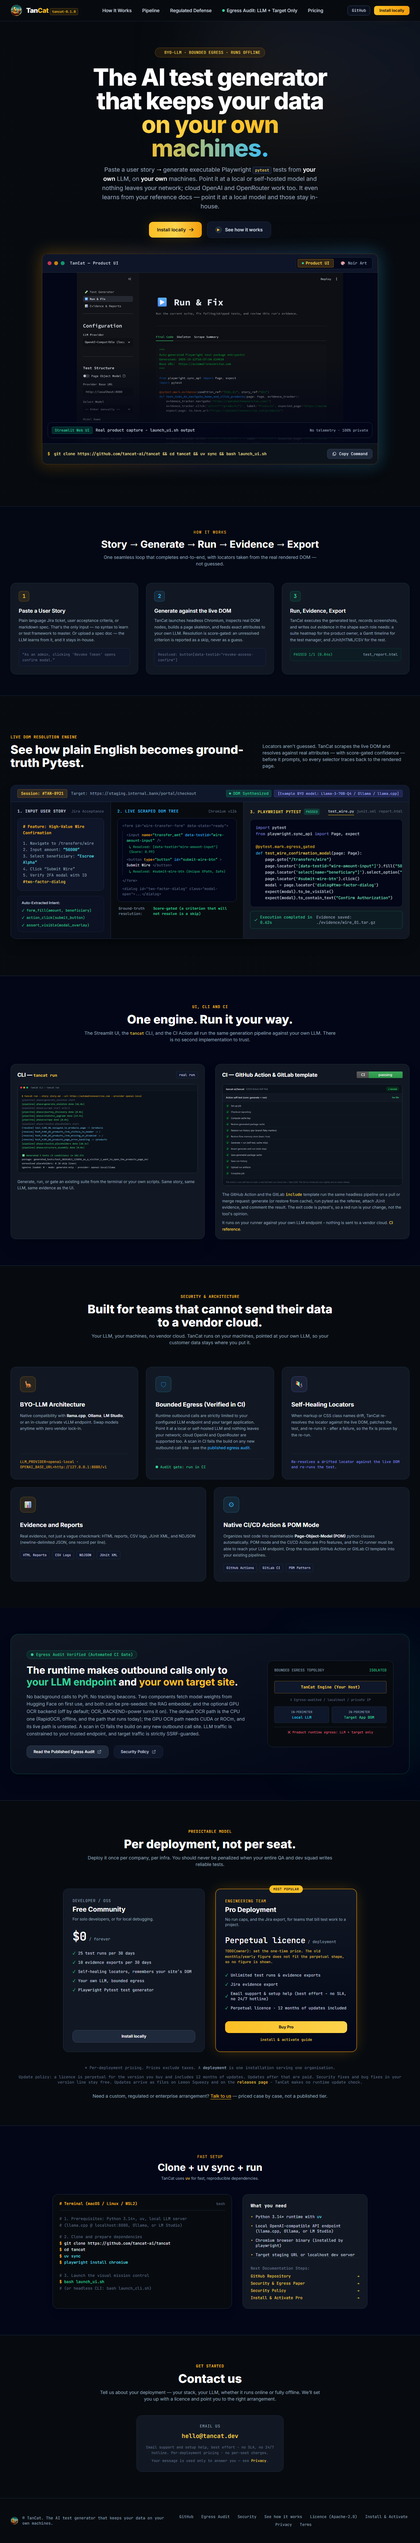
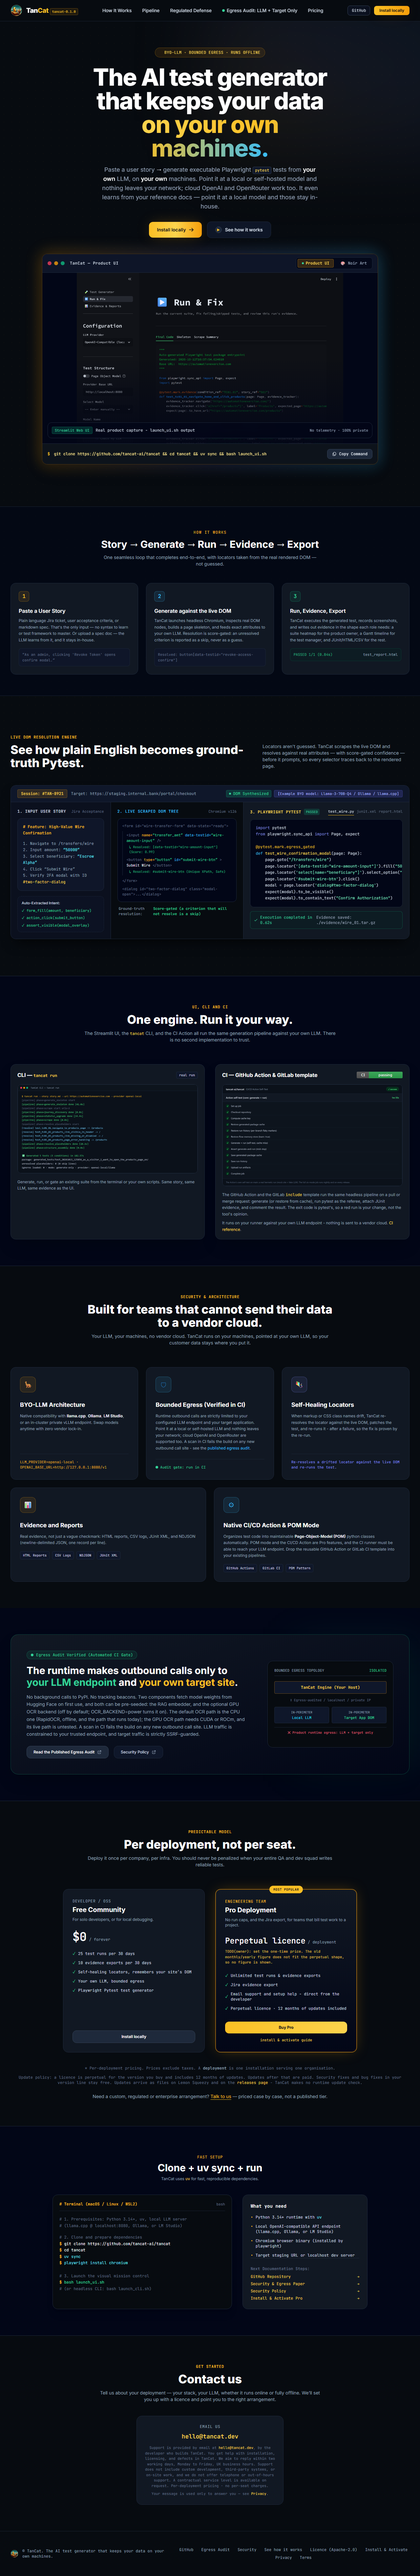
docs(support): rewrite support to the owner's chosen copy across every surface (t-0806)
The owner chose the copy and accepted a two-working-day aim, so the
best-effort wording is replaced.

- Card (landing/index.html): "Email support and setup help - direct from the
  developer" - a short positive promise; no "best effort", "no SLA" or
  "no 24/7 hotline" on the card.
- Terms (landing/terms.html), the contact blurb, the install/licence PDF
  source and docs/user/reference/licensing.md carry the same paragraph:
  support by email at hello@tancat.dev from the developer who builds TanCat,
  help with installation, licensing and defects, an aim to reply within two
  working days (Monday to Friday, UK business hours), the exclusions (no
  custom development, third-party systems or on-site work; no telephone or
  out-of-hours support), and a contractual service level on request.
- Lemon Squeezy feature list, landing/install.html footer and
  src/licensing/tiers.py aligned.

The install PDF stays one page via a small spacing tighten. Assets
regenerated (og-card, both previews, PDF, asset-sources.json).

diff --git a/landing/index.html b/landing/index.html
@@ -336,7 +336,7 @@
     <div><div class="text-xs font-mono uppercase text-amber-400 tracking-wider">Engineering Team</div><h3 class="text-xl font-bold text-white mt-1">Pro Deployment</h3><p class="text-slate-400 text-xs mt-2">No run caps, and the Jira export, for teams that bill test work to a project.</p>
     <div class="my-6"><span class="text-2xl font-black text-white font-mono">Perpetual licence</span><span class="text-slate-400 text-xs font-mono"> / deployment</span></div>
     <div class="-mt-4 mb-6 text-[11px] font-mono text-amber-300/90">TODO(owner): set the one-time price. The old monthly/yearly figure does not fit the perpetual shape, so no figure is shown.</div>
-    <ul class="space-y-3 text-xs text-slate-300 font-mono"><li class="flex items-center gap-2 text-emerald-400"><span>&#10003;</span><span class="text-slate-300">Unlimited test runs &amp; evidence exports</span></li><li class="flex items-center gap-2 text-emerald-400"><span>&#10003;</span><span class="text-slate-300">Jira evidence export</span></li><li class="flex items-center gap-2 text-emerald-400"><span>&#10003;</span><span class="text-slate-300">Email support &amp; setup help (best effort - no SLA, no 24/7 hotline)</span></li><li class="flex items-center gap-2 text-emerald-400"><span>&#10003;</span><span class="text-slate-300">Perpetual licence &middot; 12 months of updates included</span></li></ul></div>
+    <ul class="space-y-3 text-xs text-slate-300 font-mono"><li class="flex items-center gap-2 text-emerald-400"><span>&#10003;</span><span class="text-slate-300">Unlimited test runs &amp; evidence exports</span></li><li class="flex items-center gap-2 text-emerald-400"><span>&#10003;</span><span class="text-slate-300">Jira evidence export</span></li><li class="flex items-center gap-2 text-emerald-400"><span>&#10003;</span><span class="text-slate-300">Email support and setup help - direct from the developer</span></li><li class="flex items-center gap-2 text-emerald-400"><span>&#10003;</span><span class="text-slate-300">Perpetual licence &middot; 12 months of updates included</span></li></ul></div>
     <div class="mt-8"><a class="w-full block text-center py-2.5 px-4 rounded-xl text-xs font-bold text-slate-950 bg-gradient-to-r from-amber-400 to-amber-300 hover:brightness-110 shadow-md transition-all" href="#contact" id="buy-pro" data-checkout-state="not-configured">Buy Pro</a></div>
     <p class="mt-3 text-center text-[11px] font-mono text-slate-500"><a class="text-amber-300 hover:underline" href="install.html">install &amp; activate guide</a></p>
   </div>
@@ -390,7 +390,7 @@
 <div class="mx-auto max-w-md bg-cardbg border border-slate-800 rounded-2xl p-6 text-center">
   <div class="text-xs font-mono text-slate-400 uppercase tracking-wider">Email us</div>
   <a class="mt-2 block text-lg font-bold text-amber-300 font-mono hover:text-amber-200 transition-colors" href="mailto:hello@tancat.dev">hello@tancat.dev</a>
-  <p class="mt-3 text-[11px] font-mono text-slate-500">Email support and setup help, best effort - no SLA, no 24/7 hotline. Per-deployment pricing &middot; no per-seat charges.</p>
+  <p class="mt-3 text-[11px] font-mono text-slate-500">Support is provided by email at <a class="text-amber-300 hover:underline" href="mailto:hello@tancat.dev">hello@tancat.dev</a>, by the developer who builds TanCat. You get help with installation, licensing, and defects in TanCat. We aim to reply within two working days, Monday to Friday, UK business hours. Support does not include custom development, third-party systems, or on-site work, and we do not offer telephone or out-of-hours support. A contractual service level is available on request. Per-deployment pricing &middot; no per-seat charges.</p>
   <p class="mt-2 text-[11px] font-mono text-slate-500">Your message is used only to answer you &mdash; see <a class="text-amber-300 hover:underline" href="privacy.html">Privacy</a>.</p>
 </div>
 </div>

diff --git a/docs/implementation/tancat-pro-install-and-licence.html b/docs/implementation/tancat-pro-install-and-licence.html
@@ -7,8 +7,8 @@
   @font-face { font-family: "Inter"; font-style: normal; font-weight: 700; font-display: block; src: url("fonts/inter-bold.woff2") format("woff2"); }
   @font-face { font-family: "Inter"; font-style: italic; font-weight: 400; font-display: block; src: url("fonts/inter-italic.woff2") format("woff2"); }
   @font-face { font-family: "JetBrains Mono"; font-style: normal; font-weight: 400; font-display: block; src: url("fonts/jetbrains-mono-regular.woff2") format("woff2"); }
-  @page { size: A4; margin: 13mm 14mm; }
-  body { font: 9.4pt/1.38 "Inter", sans-serif; color: #111; margin: 0; }
+  @page { size: A4; margin: 11mm 14mm; }
+  body { font: 9.4pt/1.34 "Inter", sans-serif; color: #111; margin: 0; }
   h1 { font-size: 16pt; margin: 0 0 1mm; letter-spacing: -0.3pt; }
   .sub { color: #555; font-size: 8.6pt; margin: 0 0 4mm; }
   h2 { font-size: 9.8pt; margin: 3.6mm 0 1.2mm; padding-bottom: 0.6mm; border-bottom: 1px solid #ddd; }
@@ -18,7 +18,7 @@
   ul { margin: 0.8mm 0 1.2mm 4.5mm; padding: 0; }
   li { margin: 0.4mm 0; }
   .box { border: 1px solid #e2e2e2; background: #fafafa; border-radius: 3px; padding: 2mm 2.5mm; margin: 1.6mm 0; }
-  .foot { margin-top: 4.5mm; padding-top: 2mm; border-top: 1px solid #ddd; color: #666; font-size: 7.6pt; }
+  .foot { margin-top: 3mm; padding-top: 2mm; border-top: 1px solid #ddd; color: #666; font-size: 7.6pt; }
   strong { color: #000; }
 </style></head><body>
 <h1>TanCat Pro Deployment Licence</h1>
@@ -62,7 +62,7 @@ bash launch_cli.sh     # interactive CLI</pre>
 <p>Updates are files, not a service: they arrive on Lemon Squeezy and on the releases page (github.com/tancat-ai/tancat/releases), and you choose when to install them. The product makes <strong>no runtime update check</strong> and calls no vendor server.</p>
 
 <h2>7. Support</h2>
-<p>Email <strong>hello@tancat.dev</strong> for support and help getting set up. It is best effort - no SLA and no 24/7 hotline - and we do not promise a response time.</p>
+<p>Support is provided by email at <strong>hello@tancat.dev</strong>, by the developer who builds TanCat. You get help with installation, licensing, and defects in TanCat. We aim to reply within two working days, Monday to Friday, UK business hours. Support does not include custom development, third-party systems, or on-site work, and we do not offer telephone or out-of-hours support. A contractual service level is available on request.</p>
 
 <p class="foot">TanCat is a sole-trader business based in the United Kingdom. Licence terms: https://tancat.dev/terms.html &middot; Privacy: https://tancat.dev/privacy.html<br/>Merchant of record: Lemon Squeezy. Their terms govern the purchase transaction; these licence terms govern the software.</p>
 </body></html>

diff --git a/landing/terms.html b/landing/terms.html
@@ -92,7 +92,7 @@ footer{margin-top:56px;padding-top:20px;border-top:1px solid #1e293b;font:12px u
 <p>To the fullest extent the law allows, we are not liable for indirect or consequential loss, loss of profit, loss of data, or business interruption. Our total liability for any claim is limited to the amount you paid us in the 12 months before the claim. Nothing here limits liability that cannot be limited by law, including for death or personal injury caused by negligence, or for fraud.</p>
 
 <h2>Support</h2>
-<p>Licensed tiers include email support at <a href="mailto:hello@tancat.dev">hello@tancat.dev</a> and help getting set up. It is best effort: there is no SLA and no 24/7 hotline, and we do not promise a response time. Anything beyond that is agreed in writing with you.</p>
+<p>Support is provided by email at <a href="mailto:hello@tancat.dev">hello@tancat.dev</a>, by the developer who builds TanCat. You get help with installation, licensing, and defects in TanCat. We aim to reply within two working days, Monday to Friday, UK business hours. Support does not include custom development, third-party systems, or on-site work, and we do not offer telephone or out-of-hours support. A contractual service level is available on request.</p>
 
 <h2>Payment and refunds</h2>
 <p>Paid licences are sold through <a href="https://www.lemonsqueezy.com/terms" rel="noopener">Lemon Squeezy</a>, our merchant of record: the seller of record for the transaction, handling payment, tax and refunds under its own terms. If the software is not what you expected, contact us within 30 days of purchase and we will arrange a full refund through Lemon Squeezy. After 30 days, refunds are at our discretion and where the law requires one.</p>

diff --git a/docs/launch/lemon-squeezy-checklist.html b/docs/launch/lemon-squeezy-checklist.html
@@ -84,7 +84,7 @@
       <tr><td>Pro &mdash; monthly</td><td>$99</td><td>Every month</td></tr>
       <tr><td>Pro &mdash; yearly</td><td>$990</td><td>Every year</td></tr>
     </table>
-    Put the same feature list on both: unlimited runs and evidence exports, POM mode, multi-site suites, CI/CD Action, email support and help getting set up (best effort - no SLA, no 24/7 hotline), a perpetual licence for the version bought with 12 months of updates included, and one deployment (whole team, no per-seat charge).
+    Put the same feature list on both: unlimited runs and evidence exports, POM mode, multi-site suites, CI/CD Action, email support and setup help, direct from the developer (we aim to reply within two working days), a perpetual licence for the version bought with 12 months of updates included, and one deployment (whole team, no per-seat charge).
     <div class="muted">Update entitlement: 12 months of updates included; later updates are paid. Security fixes and bug fixes within the bought version line stay free. Updates are delivered as files on Lemon Squeezy and on the releases page; the product itself never checks for updates.</div>
     <div class="muted">Where: dashboard &rarr; Products &rarr; New product.</div>
   </li>

diff --git a/landing/install.html b/landing/install.html
@@ -130,7 +130,7 @@ bash launch_ui.sh</code></pre>
       <li><a class="text-amber-300 hover:underline" href="tancat-pro-install-and-licence.pdf">Download the install &amp; licence PDF</a></li>
       <li><a class="text-amber-300 hover:underline" href="https://github.com/tancat-ai/tancat/blob/main/docs/security/license-key-ops.md" rel="noopener noreferrer" target="_blank">How licence keys are issued (key operations)</a></li>
       <li><a class="text-amber-300 hover:underline" href="terms.html">Licence terms</a> &middot; <a class="text-amber-300 hover:underline" href="privacy.html">Privacy</a></li>
-      <li><a class="text-amber-300 hover:underline" href="mailto:hello@tancat.dev">hello@tancat.dev</a> &mdash; email support, best effort (no SLA, no 24/7 hotline).</li>
+      <li><a class="text-amber-300 hover:underline" href="mailto:hello@tancat.dev">hello@tancat.dev</a> &mdash; email support and setup help, direct from the developer.</li>
     </ul>
   </section>
 </main>

diff --git a/src/licensing/tiers.py b/src/licensing/tiers.py
@@ -59,7 +59,7 @@ FEATURES = {
     "multi_site": "multi-site suites",
     "ci_runs": "CI / headless runs",
     "private_network": "private-network target support",
-    "support": "email support (best effort) + setup help",
+    "support": "email support and setup help - direct from the developer",
 }
 
 

diff --git a/CHANGELOG.md b/CHANGELOG.md
@@ -10,7 +10,7 @@ Version numbers follow [Semantic Versioning](https://semver.org/spec/v2.0.0.html
 ## [Unreleased]
 
 ### Changed
-- **Support restored on the Pro surface with one plain definition (2026-10-13, t-0803):** the owner approved support on Pro, but not a 24/7 hotline, so every surface now states the same thing: email support at hello@tancat.dev, best effort - no SLA, no 24/7 hotline - plus help getting set up, with no promised response time. The Pro card on `landing/index.html` regains a support bullet, the Lemon Squeezy product feature list (`docs/launch/lemon-squeezy-checklist.html`) gains it, and `landing/terms.html`, the install/licence PDF (`docs/implementation/tancat-pro-install-and-licence.html`) and `docs/user/reference/licensing.md` were rewritten from "we reply as soon as we can" / "Support and onboarding bundle" to the one definition. The landing contact blurb and `landing/install.html` are aligned too, and the internal canonical claim name (`src/licensing/tiers.py` `FEATURES["support"]`) follows. The install PDF and the landing captions were regenerated (`make_landing_assets.py`); `landing_assets_guard.py --check` green; site-health + asset-guard + licence tests 48 passed; `mkdocs build --strict` clean.
+- **Support wording rewritten to the owner's copy, one definition across every surface (2026-10-13, t-0803 / t-0806):** the owner chose the copy and accepted a two-working-day aim. The Pro card (`landing/index.html`) carries the short positive promise "Email support and setup help - direct from the developer"; the boundary lives in the terms, not the card. `landing/terms.html`, the landing contact blurb, the install/licence PDF source (`docs/implementation/tancat-pro-install-and-licence.html`) and `docs/user/reference/licensing.md` now carry the same paragraph: support by email at hello@tancat.dev from the developer who builds TanCat, help with installation, licensing and defects, an aim to reply within two working days (Monday to Friday, UK business hours), what support excludes (custom development, third-party systems, on-site work; no telephone or out-of-hours support), and a contractual service level on request. The Lemon Squeezy feature list (`docs/launch/lemon-squeezy-checklist.html`), the `landing/install.html` footer and the internal claim name (`src/licensing/tiers.py` `FEATURES["support"]`) follow. No surface says "best effort", "no SLA" or "no 24/7 hotline". Install PDF and landing captions regenerated (`make_landing_assets.py`); `landing_assets_guard.py --check` green; site-health + asset-guard + licence tests 48 passed; `mkdocs build --strict` clean.
 - **Held-out gate re-measured on current main with the accuracy A/C fixes: 94/113 (83.2%), 0 hollow passes - no movement (2026-10-13, t-0759):** same settings as the 2026-10-12 baseline (`Qwen3.8-27B-UD-Q4_K_XL_v2.gguf`, openai-local at http://127.0.0.1:8080/v1, thinking off, temp 0.0, RAG on, `full --regenerate`, identical golden dataset). The A/C fixes (PR #91, t-0754) changed the emitted code for eval-002/007/008 but every story's correct count is unchanged and the per-class gate-1 breakdown is identical (wrong_element 14, target_never_captured 3, weakened_to_visible_element 1, element_instead_of_page_arrival 1). Tests passed fell 44 -> 40 (some wrong-element asserts become honest skips); gate 2 stays 0. eval-004 scored 4/7 again. Record: `docs/sessions/2026-10-13_heldout_gates.md`; `scripts/eval/known_gate_scores.json` (2026-10-12 under `previous`, 82/113 under `comparison.history`); re-score input committed at `fixtures/heldout_runs/2026-10-13/`.
 - **Landing page copy corrected against the t-0770 audit - first pass (2026-10-13, t-0771):** factual fixes only; the owner publishes, then does a second round (self-healing on tancat.dev, codegen/manual correction). The security section now says "Built for teams that cannot send their data to a vendor cloud" with the line "Your LLM, your machines, no vendor cloud" (was "Built for the regulated buyer" plus a claim about competitors' shared servers). The fabricated `ENV: TANCAT_LLM_URL=...` hint is replaced by the real `LLM_PROVIDER=openai-local` / `OPENAI_BASE_URL=http://127.0.0.1:8080/v1`. The egress copy no longer calls the CI scan "AST" (it is a regex scan) and no longer names the internal script on the page - it states the guarantee and links the published audit; the false "no model weights downloaded at runtime" is qualified (the RAG embedder fetches its model from Hugging Face on first use, and can be pre-seeded). The CI card drops "in minutes" and states CI/POM are Pro and the runner must reach your LLM. Self-healing now reads as re-resolve against the live DOM, patch, re-run - after a failure (drops "before CI turns red"). The evidence card drops "audit-grade" and "deterministic DOM bundles" and explains NDJSON. The Free tier shows 10 evidence exports per 30 days (was "unlimited"). The Pro card drops the `$99 / month` and `$990 / year` lines (they do not fit the perpetual-licence shape) and the "Secure checkout by Lemon Squeezy" claim (`checkoutUrl` is empty, so Buy Pro falls back to `#contact`); it shows the perpetual shape with a clearly marked TODO for the one-time price. Landing assets regenerated (og-card, both previews, `asset-sources.json`); `landing_assets_guard.py --check` green; site-health + asset-guard tests 20 passed.
 - **The full six-mode Action self-test is now a required release step (2026-10-13, t-0768):** `release.yml` gated on `ci.yml` only, and the six-mode suite (`action-self-test-full` in `ci-cd-action.yml`) was gated to `schedule`/`workflow_dispatch`, so a release could ship without it ever running on the tag. The suite is now a reusable workflow (`.github/workflows/action-self-test-full.yml`, `on: workflow_call`); `release.yml` calls it as the job `full-self-test`, and `build` (and so `release` and `move-v1`) `needs: [gates, full-self-test]` - all six modes must be green on the release commit. The nightly `schedule` and `workflow_dispatch` triggers still run the same suite from `ci-cd-action.yml`; the nightly failure issue moved to its own `nightly-issue-on-failure` job there (so a release failure does not file a nightly issue). `tests/test_release_workflows.py` pins the gate (release calls the reusable workflow and depends on it; the reusable workflow has `workflow_call`; the nightly triggers and caller are unchanged).

diff --git a/docs/user/reference/licensing.md b/docs/user/reference/licensing.md
@@ -20,12 +20,12 @@ tells the app what the deployment is allowed to do.
 | Page Object Model mode | - | Yes |
 | Multi-site suites | - | Yes |
 | CI / headless runs | - | Yes |
-| Support | - | Email support, best effort - help getting set up |
+| Support | - | Email support and setup help - direct from the developer |
 | Updates | - | 12 months included; later updates paid |
 | Runs | 25 per 30 days | Unlimited |
 | Evidence exports | 10 per 30 days | Unlimited |
 
-**Support.** Pro includes email support at hello@tancat.dev and help getting set up. It is best effort: there is no SLA and no 24/7 hotline, and we do not promise a response time.
+**Support.** Support is provided by email at hello@tancat.dev, by the developer who builds TanCat. You get help with installation, licensing, and defects in TanCat. We aim to reply within two working days, Monday to Friday, UK business hours. Support does not include custom development, third-party systems, or on-site work, and we do not offer telephone or out-of-hours support. A contractual service level is available on request.
 
 The two counters are shown live in the UI sidebar.
 
